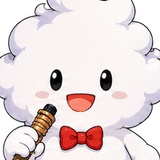
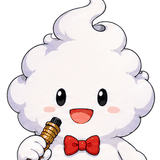
fix(pakki): 顔アイコンを巻き毛から蝶ネクタイまで収め、頭切れとスロットの拡大しすぎを直す (#575)
Claude-Session: https://claude.ai/code/session_01X5TsqF57weqNr2cYJ7FBxw

diff --git a/tools/make_face_icons.py b/tools/make_face_icons.py
@@ -35,7 +35,8 @@ COLORS = 256       # パレット色数（32色では瞳の色・肌の階調が
 DEFAULT = {"f": 0.20, "dx": 0.0, "dy": 0.0}
 TUNE = {
     "hiyori": {"abs": True, "cx": 0.51, "cy": 0.145, "side": 0.205},  # レース衣装の伏し目に顔中心を合わせる。
-    "pakki":   {"f": 0.58, "dx": -0.03, "dy": 0.36},  # マスコット。2026-10-09 オーナー「顔アイコンも同じようなサイズ感に 拡大を」で全身から目・口・蝶ネクタイまでの寄りへ
+    # マスコット。2026-10-09 に目・口・蝶ネクタイまで寄せたが、頭の巻き毛が切れたため（#575）、巻き毛の先から蝶ネクタイまで収める
+    "pakki":   {"f": 0.70, "dx": -0.03, "dy": 0.12},
     # 2026-10-04 顔の大きさを全キャラで揃える（オーナー「顔のサイズ近くなるように」）。
     # 目の下の頬の幅がアイコン幅の約0.50になるよう、目線の位置（横0.5・縦0.55）を固定して拡大縮小した値。
     # 立ち絵を差し替えたら、頬の幅を測り直して f を比例で直す（f_new = f_old × 測った幅 / 0.50）
